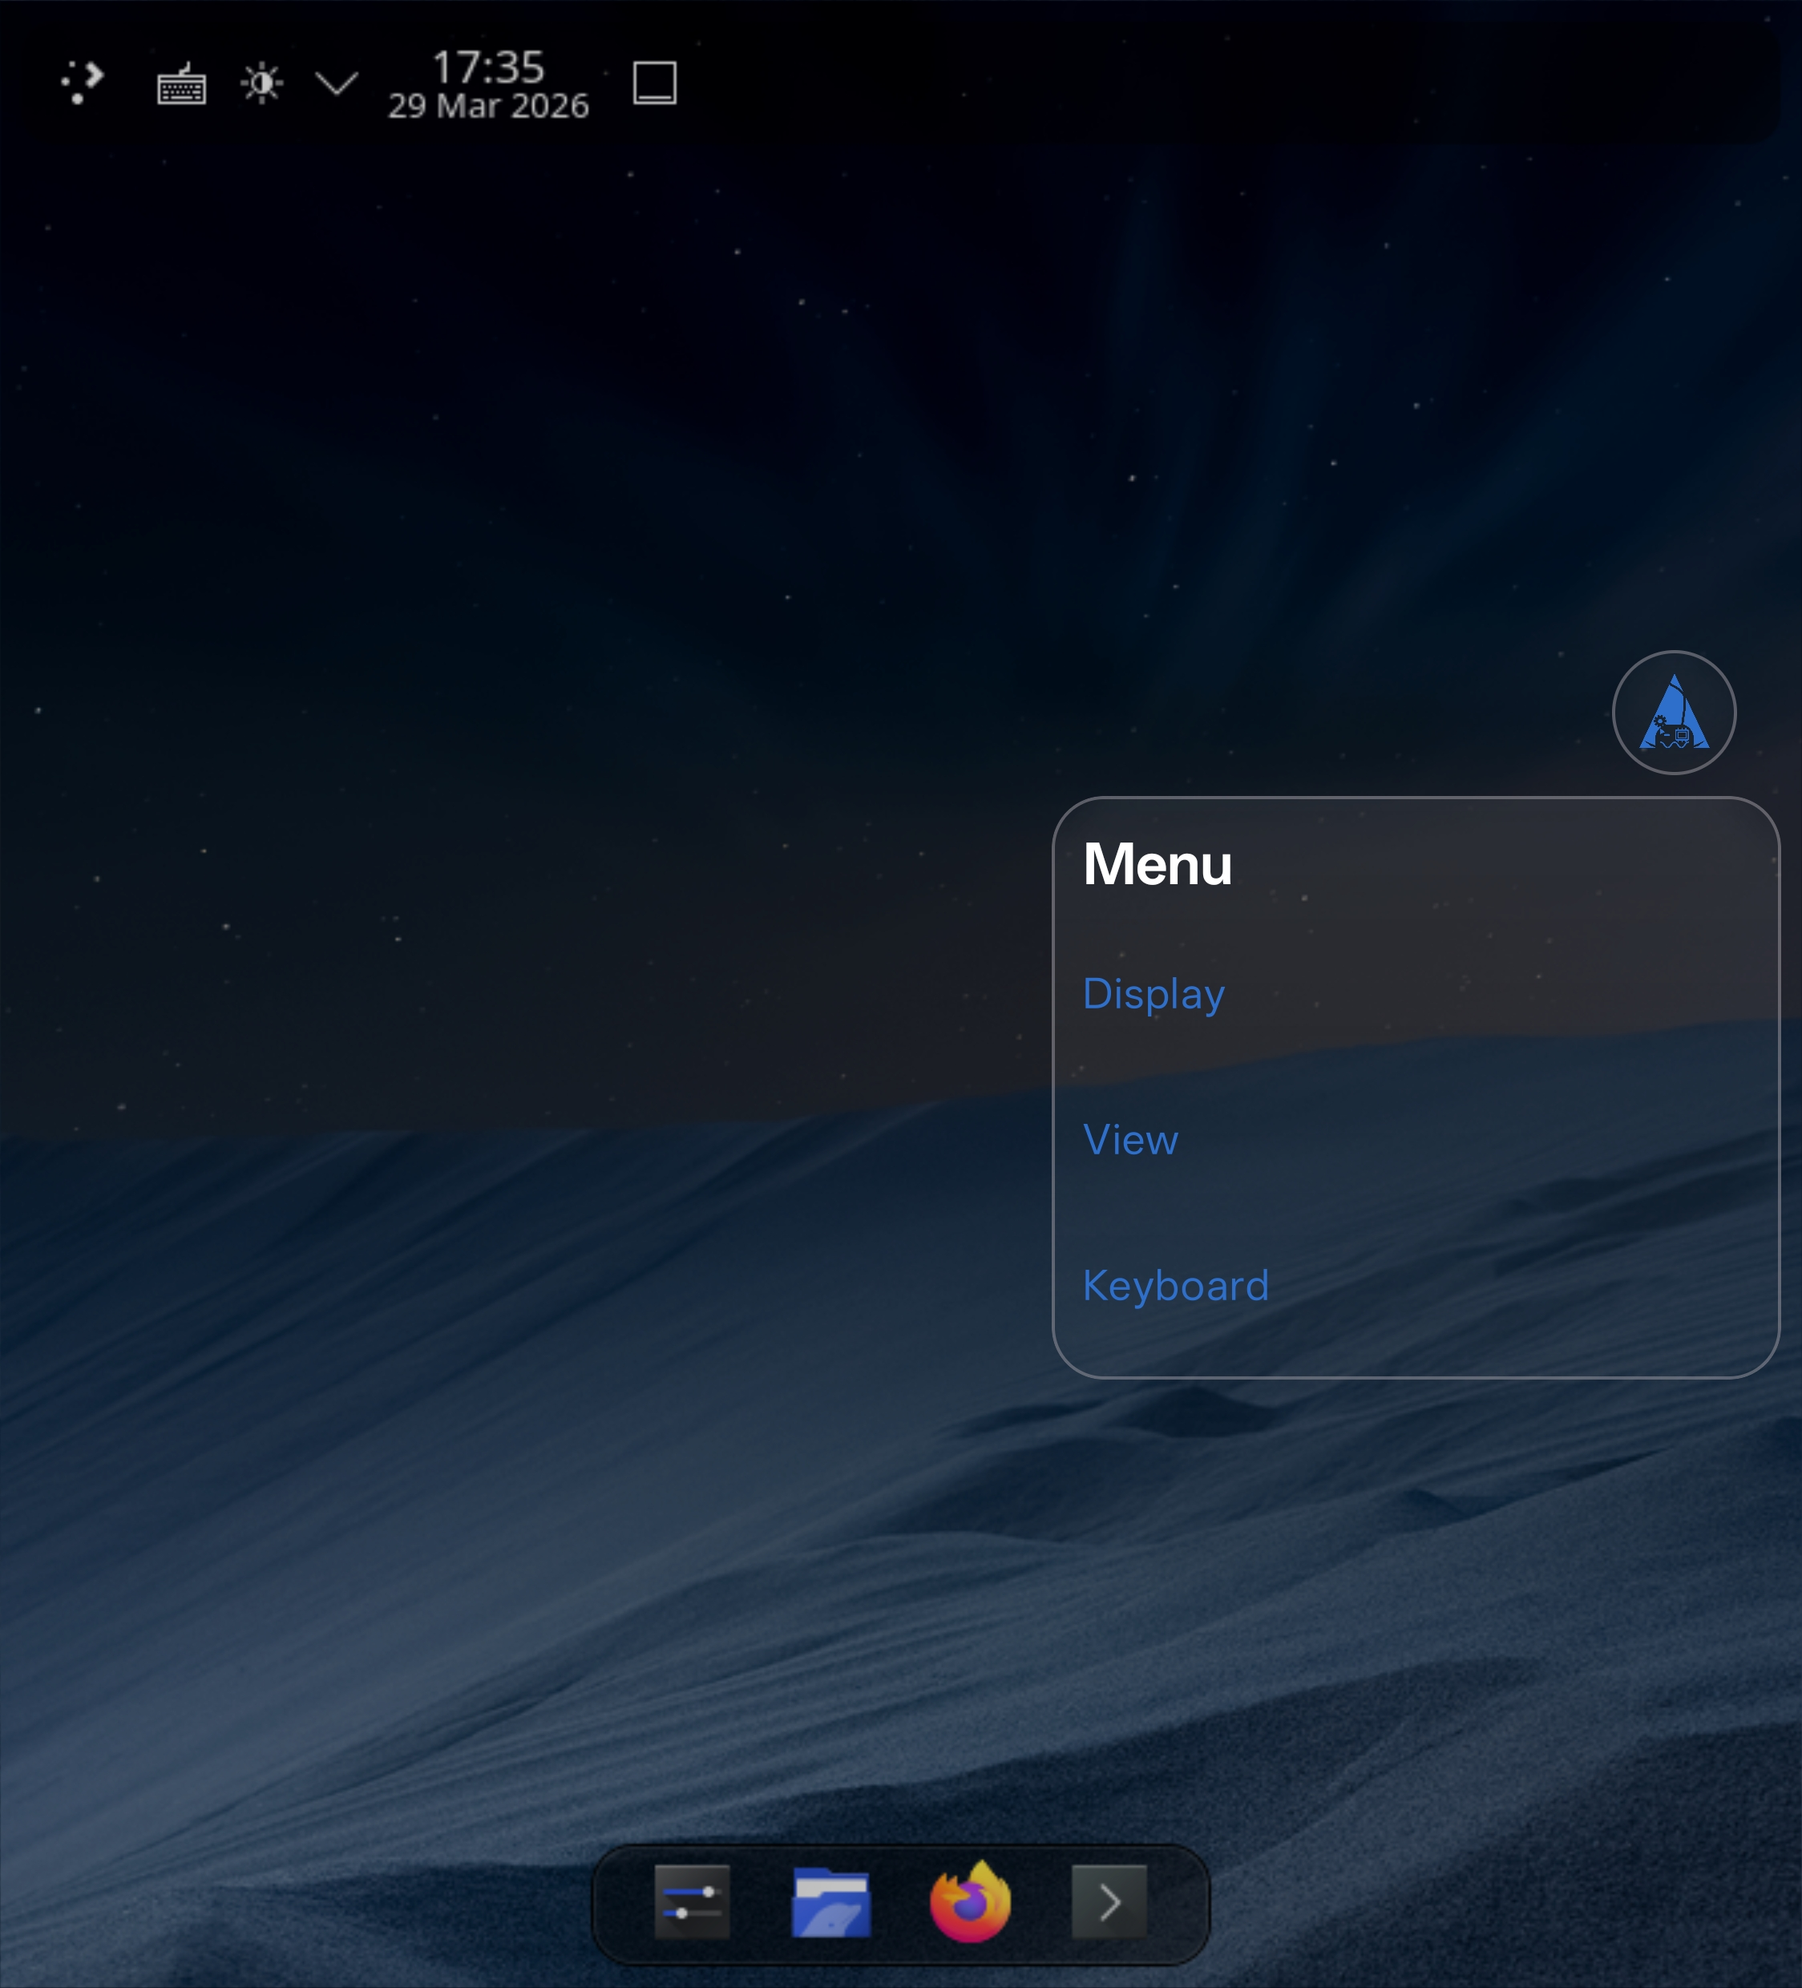
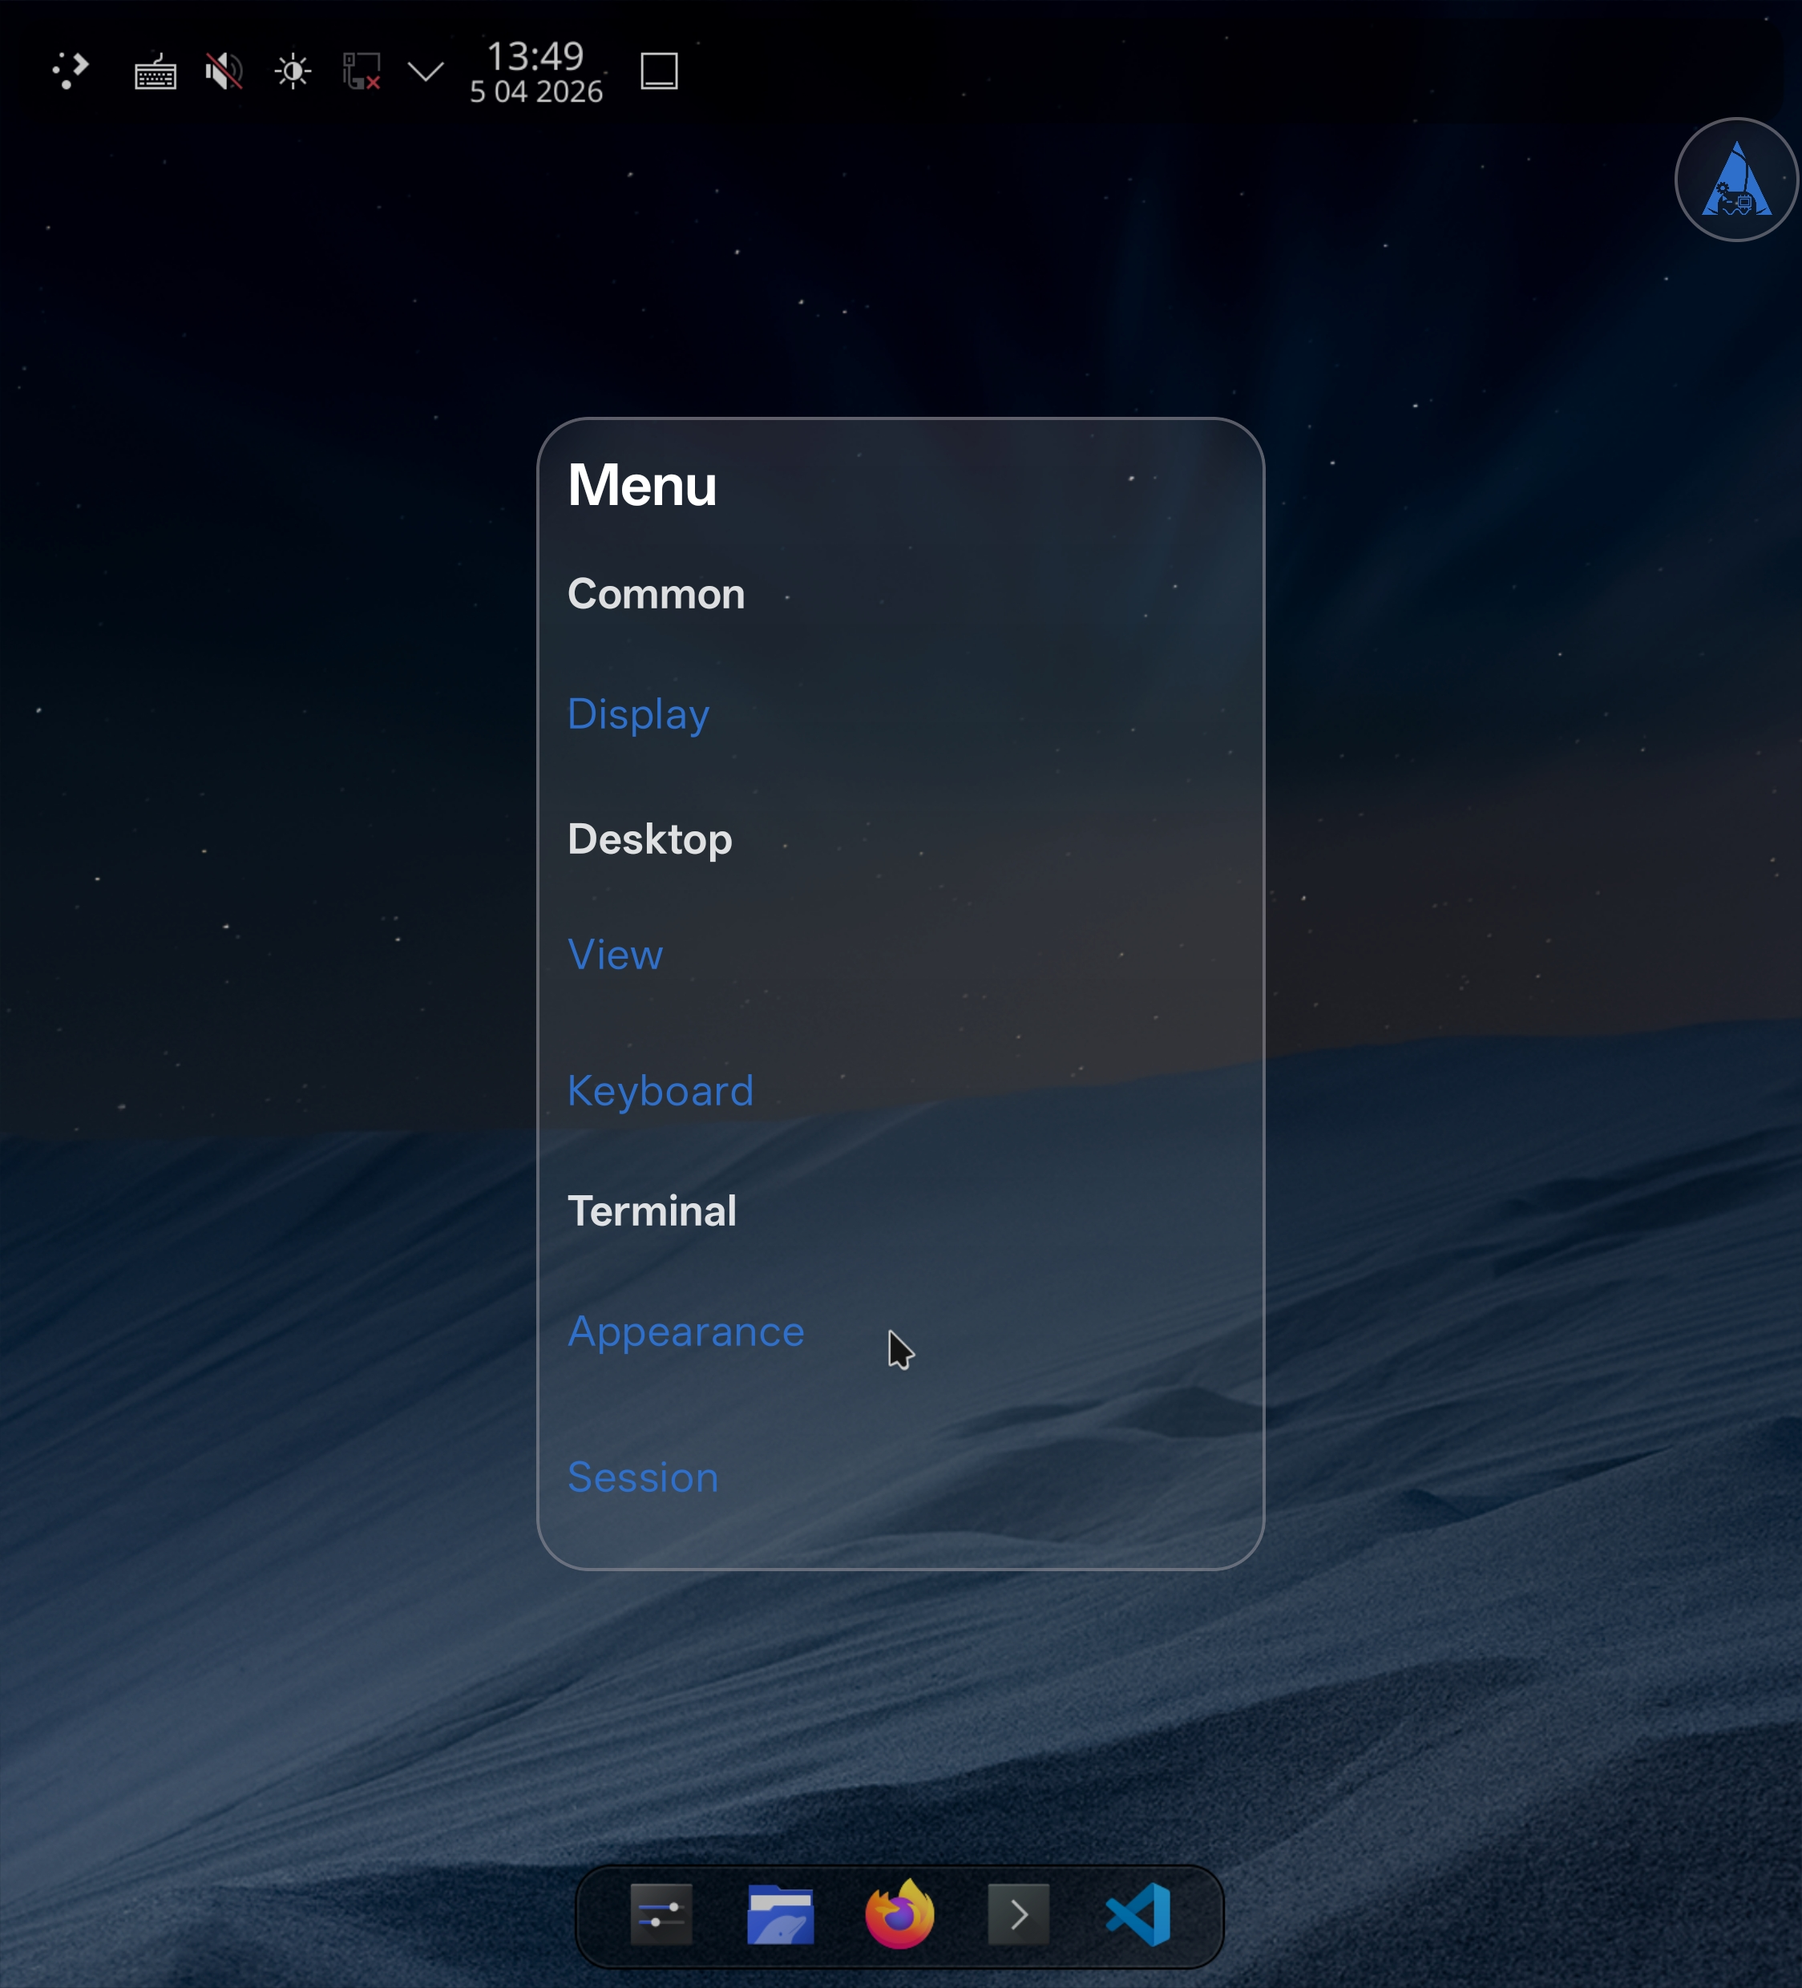
docs(readme): update README flow and screenshots for v0.3.0

diff --git a/README.zh.md b/README.zh.md
@@ -8,9 +8,9 @@
 
 ## 演示
 
-| KDE Plasma（Wayland） | Firefox（proot 内） |
+| KDE Plasma（Wayland） | VS Code（proot 内） |
 |----------------------|---------------------|
-| ![KDE Plasma 桌面](docs/images/desktop.jpg) | ![Firefox](docs/images/firefox.jpg) |
+| ![KDE Plasma 桌面](docs/images/desktop.jpg) | ![VS Code](docs/images/vscode.jpg) |
 
 ---
 
@@ -30,7 +30,7 @@
 
 ```bash
 pacman -Syu
-pacman -S plasma-desktop dolphin konsole
+pacman -S plasma-meta dolphin konsole
 ```
 
 ## 3. 悬浮菜单球与 Display（打开菜单、设置启动脚本、启动桌面）
@@ -51,13 +51,36 @@ pacman -S plasma-desktop dolphin konsole
 dbus-launch --exit-with-session startplasma-wayland > /dev/null 2>&1 &
 ```
 
+即便在 **proot** 里，也建议**不要用 root 长期跑桌面**：像真机一样**建普通用户**、设密码、用**用户组 / sudo** 管理权限。愿意可自行查阅 ArchWiki（英文 **[Users and groups](https://wiki.archlinux.org/title/Users_and_groups)**；中文 **[用户和用户组](https://wiki.archlinuxcn.org/wiki/用户和用户组)**、**[Sudo](https://wiki.archlinuxcn.org/wiki/Sudo)**）；不依赖 Wiki 时，按下面步骤即可。
+
+**创建用户并配置 sudo（示例用户名为 `myuser`）：**
+
+```bash
+pacman -S sudo
+useradd -m -G wheel -s /bin/bash myuser
+passwd myuser
+EDITOR=nano visudo
+```
+
+在 `visudo` 里可以：**取消注释** `%wheel ALL=(ALL:ALL) ALL`，让 `wheel` 组用户都能用 `sudo`；**或者**保留该行不动，在它**下面另起一行**写上 `myuser ALL=(ALL:ALL) ALL`，只给该用户提权。也可以在 **`/etc/sudoers.d/`** 下单独放规则文件（语法相同；可用 `visudo -f /etc/sudoers.d/myuser` 编辑以免写坏语法）。保存退出。
+
+在 **Display** 启动脚本**编辑框**里（长按 **Display**），应让 Plasma **以该用户身份**启动，家目录与文件归属才正常：**第一行**切换到该用户，**回车**，**第二行**写启动命令。**如图所示。**
+
 ![球菜单中的 Display](docs/images/displayScript.jpg)
+
+**Sessions（会话）** 在球菜单中可列出终端标签页，切换、新建或关闭会话。
+
+![Sessions](docs/images/sessionSettings.jpg)
+
+**外观（Appearance）**：可对应用内 **Terminal** 进行**自定义美化**（**目前仅有** shell **字体**）；若今后还有其它美化想法，请 **开 issue**，合理意见会采纳。
+
+![外观设置](docs/images/appearenceSettings.jpg)
 
 ## 4. 日常使用：点应用自动启动桌面
 
 当你设置好 Display 启动脚本后，后续**直接点击应用图标**即可进入桌面视图，应用会**自动注入并执行**该脚本（当已有桌面客户端连接时具备幂等保护，不会重复执行）。
 
-**Terminal shortcut** 主要用于初始化（例如安装桌面与终端应用），或当桌面环境里暂时没有可用终端时作为备用入口。
+**Terminal shortcut**：适用于**初始化**（例如安装桌面与终端应用），或当您**更偏好本应用内置的原生终端**时。请放心，我们已对此优化，**桌面与终端**之间切换十分流畅。
 
 ## 5. 进入桌面后：View Settings 与终端 / 桌面切换
 
@@ -74,7 +97,15 @@ dbus-launch --exit-with-session startplasma-wayland > /dev/null 2>&1 &
 
 **进入桌面（Plasma）后**，在球菜单中再点 **Display** 可回到**终端 / Wayland 界面**；**再打开球菜单**，点 **Display** 即可**回到桌面画面**。球菜单与 Display 在终端界面与桌面中均可使用。
 
-## 6. 键盘与输入（球菜单 Keyboard、GTK / Qt）
+## 6. rootfs 内调优（`trierarch-optimize`）
+
+进入桌面后若要在 **rootfs** 里继续折腾浏览器、输入法、字体等，可查阅 **[`trierarch-optimize/README.zh.md`](trierarch-optimize/README.zh.md)**（[English](trierarch-optimize/README.md)）中的专题索引。
+
+**强烈建议**尽早处理 KDE **Baloo 索引 / 虚拟 `tags:/`** 在 **proot** 下常见的报错与弹窗（否则可能反复打扰、占用资源）。步骤见 **[Baloo 与 `tags:/` 说明](trierarch-optimize/baloo-tags-warning.zh.md)**（[English](trierarch-optimize/baloo-tags-warning.md)）。
+
+一般性的 Arch 安装与排错仍以 **[ArchWiki](https://wiki.archlinux.org/)**、**[Arch Linux 中文维基](https://wiki.archlinuxcn.org/)** 为准；本应用提供的是 **proot + Wayland**，与完整桌面 Arch 相比，部分场景（内核、systemd 会话等）可能受限。
+
+## 7. 键盘与输入（球菜单 Keyboard、GTK / Qt）
 
 球菜单中的 **Keyboard** 可**唤起**软键盘。
 
@@ -84,15 +115,11 @@ dbus-launch --exit-with-session startplasma-wayland > /dev/null 2>&1 &
 
 **Qt 类应用**对同一路径往往不完整：可先在 **GTK 应用**（推荐 **Mousepad**）里输入，再**复制粘贴**到 Qt 应用。**目前 Android 软键盘与 Plasma 桌面剪贴板未打通**，复制粘贴请在 Linux 侧通过鼠标或快捷键完成（如 `Ctrl+C`、`Ctrl+V`）。可用 [**Unexpected Keyboard**](https://play.google.com/store/apps/details?id=juloo.keyboard2) 等全键盘软键盘（[GitHub](https://github.com/Julow/Unexpected-Keyboard)）。
 
-## 7. 软件与体验优化（trierarch-optimize）与 Arch 文档
-
-在 **rootfs 桌面环境内**优化软件使用的**专题教程**见仓库内 **[`trierarch-optimize/README.zh.md`](trierarch-optimize/README.zh.md)**（[English](trierarch-optimize/README.md)），索引内链接各篇说明（如 Firefox、非 ASCII 输入与字体等）。
-
-**Arch Linux 通用折腾与包管理**：系统配置、软件安装、故障排除等，请以 **[ArchWiki（英文）](https://wiki.archlinux.org/)** 与 **[Arch Linux 中文维基](https://wiki.archlinuxcn.org/)** 为准；本应用提供的是 **proot + Wayland** 运行环境，许多 Arch 侧操作与常规桌面 Arch 相同，但部分涉及内核、systemd 完整会话等场景可能受限，需结合实际环境判断。
+## 8. 构建、变更与发版
 
 如需从源码构建应用，见 [`README_DEV.zh.md`](README_DEV.zh.md)。**贡献与安全：** [`CONTRIBUTING.zh.md`](CONTRIBUTING.zh.md)、[`SECURITY.zh.md`](SECURITY.zh.md)；变更见 [`CHANGELOG.md`](CHANGELOG.md)；发版见 [`docs/RELEASING.zh.md`](docs/RELEASING.zh.md)。
 
-## 致谢与许可证
+## 9. 致谢与许可证
 
 本节汇总：**开源致谢**、**内置终端字体许可证**、**其余随包代码**（各目录内 `COPYING` / `LICENSE`）。
 

diff --git a/README.md b/README.md
@@ -8,9 +8,9 @@
 
 ## Demo
 
-| KDE Plasma (Wayland) | Firefox (inside proot) |
+| KDE Plasma (Wayland) | VS Code (inside proot) |
 |------------------------|-------------------------|
-| ![KDE Plasma desktop](docs/images/desktop.jpg) | ![Firefox](docs/images/firefox.jpg) |
+| ![KDE Plasma desktop](docs/images/desktop.jpg) | ![VS Code](docs/images/vscode.jpg) |
 
 ---
 
@@ -30,7 +30,7 @@ In the proot Arch shell, **update first, then install the desktop** (example; ad
 
 ```bash
 pacman -Syu
-pacman -S plasma-desktop dolphin konsole
+pacman -S plasma-meta dolphin konsole
 ```
 
 ## 3. Floating menu orb and Display (open menu, set Display script, start the desktop)
@@ -51,13 +51,36 @@ pacman -S plasma-desktop dolphin konsole
 dbus-launch --exit-with-session startplasma-wayland > /dev/null 2>&1 &
 ```
 
+Even in a **proot** environment, it is good practice to **run the desktop as a normal user**, not as root. If you want to dig deeper, read ArchWiki **[Users and groups](https://wiki.archlinux.org/title/Users_and_groups)** and **[Sudo](https://wiki.archlinux.org/title/Sudo)**; otherwise the short recipe below is enough.
+
+**Create a user and sudo (example user `myuser`):**
+
+```bash
+pacman -S sudo
+useradd -m -G wheel -s /bin/bash myuser
+passwd myuser
+EDITOR=nano visudo
+```
+
+In the editor, you can either **uncomment** the line `%wheel ALL=(ALL:ALL) ALL` so everyone in group `wheel` may use `sudo`, **or** leave that line as-is and **add below it** a dedicated rule, e.g. `myuser ALL=(ALL:ALL) ALL`. Alternatively, add a file under `/etc/sudoers.d/` (same syntax; use `visudo -f /etc/sudoers.d/myuser` to avoid syntax errors). Save and exit.
+
+In the **Display** script editor (long-press **Display**), start Plasma **as that user** so files under `/home/myuser` belong to the session: **first line** switch to the account, **Enter**, **second line** the startup command. See the screenshot below.
+
 ![Display in orb menu](docs/images/displayScript.jpg)
+
+**Sessions** (orb menu) lists terminal tabs—switch, add, or remove sessions.
+
+![Sessions](docs/images/sessionSettings.jpg)
+
+**Appearance** (orb menu): customize the in-app **Terminal** look—**fonts only** for now. For further beautification or theming ideas, **open an issue**—reasonable suggestions welcome.
+
+![Appearance settings](docs/images/appearenceSettings.jpg)
 
 ## 4. Daily use: tap app to auto-start the desktop
 
 After you have set a Display startup script, you can **tap the app icon normally** to enter the desktop view; the app will **inject and run the Display script automatically** (idempotent when a desktop client is already connected).
 
-The **Terminal** shortcut is mainly for initialization (installing a desktop + terminal app) or as a fallback when you don’t have a terminal available inside the desktop yet.
+The **Terminal** shortcut is for **first-time setup** (e.g. installing the desktop and terminal packages) or when you **prefer the in-app native terminal**—it’s optimized for **smooth switching** between the **desktop and terminal** views.
 
 ## 5. After Plasma starts: View Settings and terminal ↔ desktop switching
 
@@ -74,7 +97,15 @@ Open **View Settings** from the orb menu to tune the compositor and pointer beha
 
 After Plasma is running, tap **Display** in the orb menu again to return to the **terminal / Wayland** view; **open the orb menu → Display** to go back to the desktop. The orb menu and Display work in both the shell view and on the desktop.
 
-## 6. Keyboard and input (orb menu Keyboard, GTK / Qt)
+## 6. In-rootfs tuning (`trierarch-optimize`)
+
+For topic guides (browser, IME, fonts, etc.) after you’re on the desktop, see **[`trierarch-optimize/README.md`](trierarch-optimize/README.md)** ([中文](trierarch-optimize/README.zh.md)).
+
+**Strongly recommended:** fix **Baloo / virtual `tags:/`** issues common under **proot** (otherwise repeated pop-ups and wasted resources). Follow **[Baloo and `tags:/`](trierarch-optimize/baloo-tags-warning.md)** ([中文](trierarch-optimize/baloo-tags-warning.zh.md)).
+
+For general Arch setup and troubleshooting, use **[ArchWiki](https://wiki.archlinux.org/)** and the **[Arch Linux Chinese Wiki](https://wiki.archlinuxcn.org/)**. This app is **proot + Wayland**; some full-desktop assumptions (kernel, systemd sessions, …) may not apply.
+
+## 7. Keyboard and input (orb menu Keyboard, GTK / Qt)
 
 The **Keyboard** item in the orb menu can **invoke** the soft keyboard.
 
@@ -84,15 +115,11 @@ In **GTK** apps you can enter **non-ASCII** characters (Chinese, emoji, special 
 
 **Qt** apps often don’t support that path: type in a **GTK** app first (**Mousepad**), then **copy/paste** into Qt. The **Android soft keyboard** and **Plasma clipboard** are **not integrated**—copy/paste inside Linux using the mouse or shortcuts (e.g. `Ctrl+C`, `Ctrl+V`). You can use a full soft keyboard such as [**Unexpected Keyboard**](https://play.google.com/store/apps/details?id=juloo.keyboard2) ([GitHub](https://github.com/Julow/Unexpected-Keyboard)).
 
-## 7. In-rootfs tuning (`trierarch-optimize`) and Arch documentation
-
-Topic guides for **tuning apps inside the rootfs desktop** are in **[`trierarch-optimize/README.md`](trierarch-optimize/README.md)** ([中文](trierarch-optimize/README.zh.md)), with links to articles (Firefox, non-ASCII input and fonts, etc.).
-
-For **general Arch Linux** setup, packages, and troubleshooting, use **[ArchWiki](https://wiki.archlinux.org/)** and the **[Arch Linux Chinese Wiki](https://wiki.archlinuxcn.org/)**. This app provides **proot + Wayland** on a phone; many Arch steps match a normal desktop install, but kernel features, full **systemd** sessions, etc. may differ.
+## 8. Build, changes, and releases
 
 To build from source, see [`README_DEV.md`](README_DEV.md). **Contributing & security:** [`CONTRIBUTING.md`](CONTRIBUTING.md), [`SECURITY.md`](SECURITY.md); changes in [`CHANGELOG.md`](CHANGELOG.md); releases: [`docs/RELEASING.md`](docs/RELEASING.md).
 
-## Acknowledgments and licenses
+## 9. Acknowledgments and licenses
 
 This section covers: **thanks to upstreams**, **bundled terminal font licenses**, and **other in-tree code** (see each tree’s `COPYING` / `LICENSE`).
 
